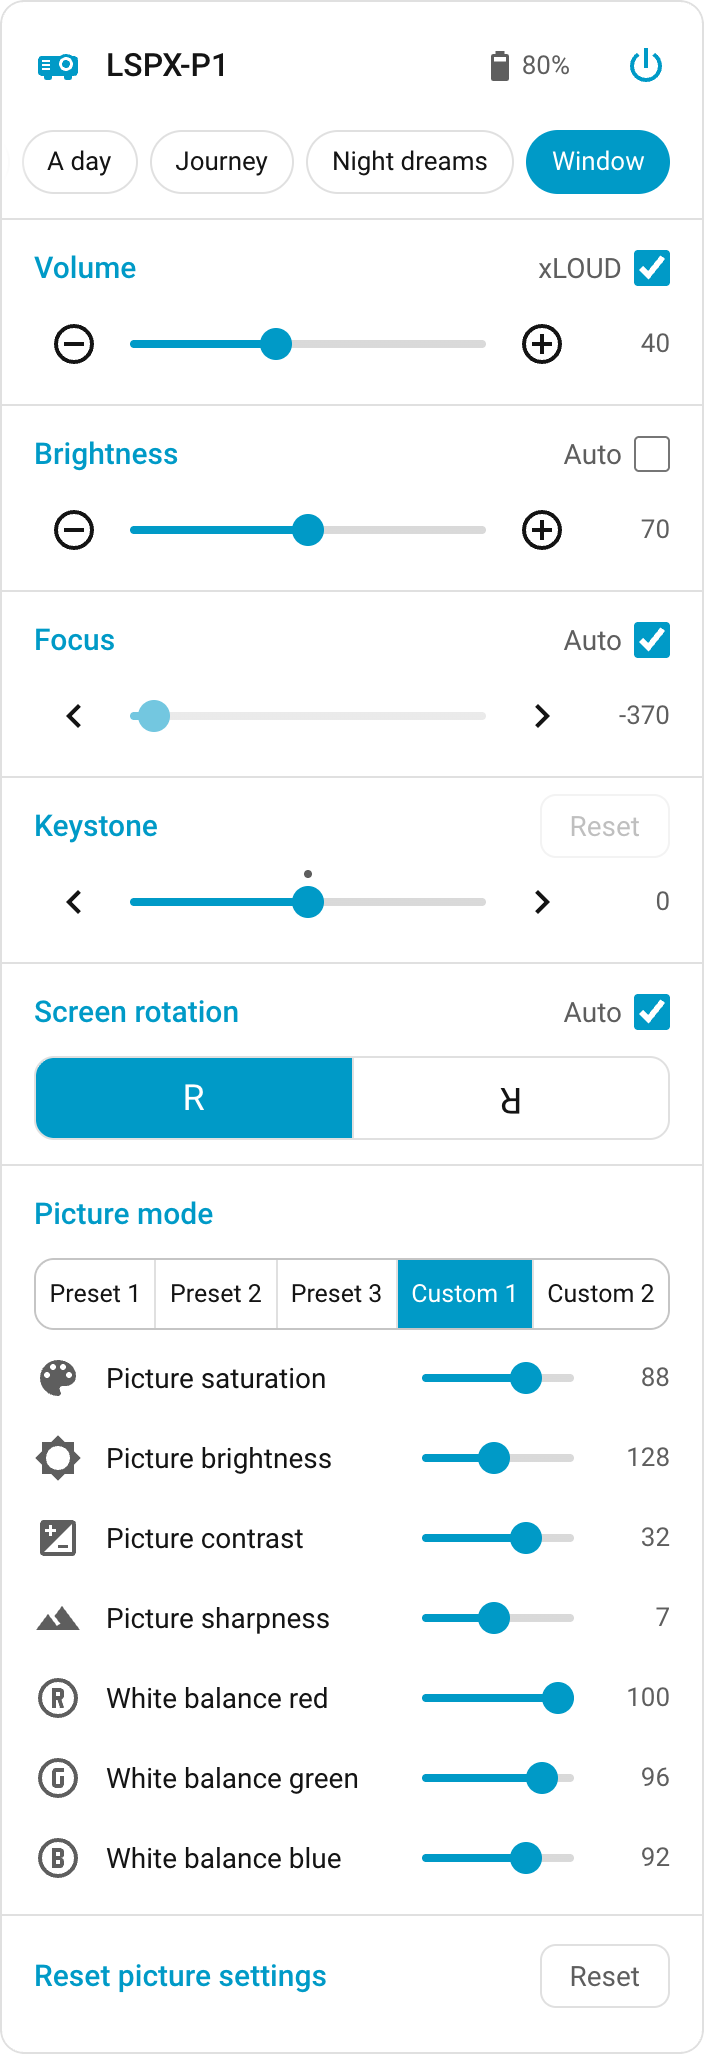
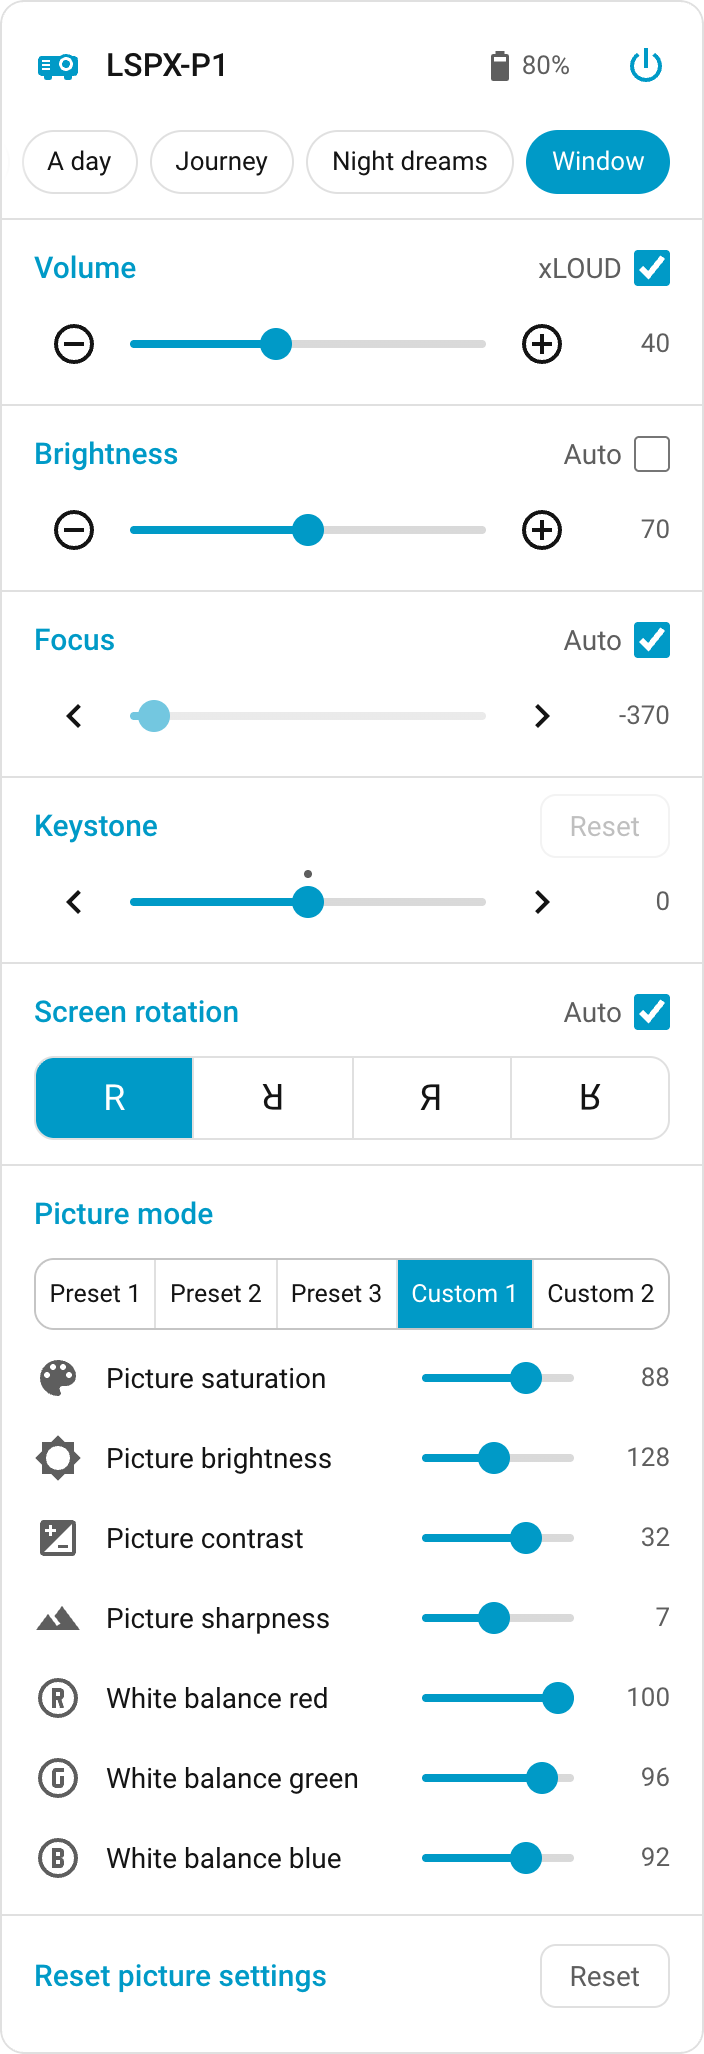
Card: all four screen rotations, including the mirrored ones
The card offered only Normal and Upside down, as Sony's app does. It now
also offers Mirrored horizontally and Mirrored vertically, each an "R"
turned the same way, with the entity's translated option name as tooltip
and accessible name. A projector in a mirrored state used to show no
option selected.

diff --git a/custom_components/sony_lspx_p1/frontend/sony-lspx-p1-card.js b/custom_components/sony_lspx_p1/frontend/sony-lspx-p1-card.js
@@ -84,6 +84,15 @@ const KEYS = {
   battery: ["_battery"],
 };
 
+// Screen rotation options (the select's, in its order), each shown as an "R" turned or mirrored the same way.
+// The entity's translated state name is the button's tooltip and accessible name.
+const ROTATIONS = [
+  ["normal", "none"],
+  ["rotate_180", "scale(-1, -1)"],
+  ["mirror_horizontal", "scaleX(-1)"],
+  ["mirror_vertical", "scaleY(-1)"],
+];
+
 const PICTURE_SLIDERS = [
   ["picture_saturation", "mdi:palette"],
   ["picture_brightness", "mdi:brightness-5"],
@@ -175,7 +184,9 @@ const STYLE = `
   .segments.small button { flex: 1 1 auto; white-space: nowrap; padding: 0 6px; font-size: 12.5px; height: 34px;
     border-left: none; background: var(--ha-card-background, var(--card-background-color, #fff)); }
   .segments.small button.selected { background: var(--primary-color); }
-  .flip { display: inline-block; transform: scaleX(-1) scaleY(-1); }
+  /* Turned and mirrored about the middle of the capital (just above the box's middle with line-height 1 in
+     Home Assistant's Roboto), so they stay level with the normal one. */
+  .glyph { display: inline-block; line-height: 1; transform-origin: 50% 47%; }
   .keystone-zero { position: relative; flex: 1; display: flex; }
   .keystone-zero::before { content: ""; position: absolute; left: 50%; top: -2px; width: 4px; height: 4px; margin-left: -2px; border-radius: 50%; background: var(--secondary-text-color); }
   .keystone-zero input { flex: 1; }
@@ -553,8 +564,7 @@ class SonyLspxP1Card extends HTMLElement {
           <div class="section">
             <div class="section-head"><span class="title" data-label="rotation"></span>${this._autoBox("auto_rotation")}</div>
             <div class="segments" data-segments="rotation">
-              <button data-option="normal">R</button>
-              <button data-option="rotate_180"><span class="flip">R</span></button>
+              ${ROTATIONS.map(([o, t]) => `<button data-option="${o}"><span class="glyph" style="transform: ${t}">R</span></button>`).join("")}
             </div>
           </div>`);
       }
@@ -889,7 +899,15 @@ class SonyLspxP1Card extends HTMLElement {
     }
 
     // Rotation
+    const rotation = this._state("rotation");
     root.querySelectorAll("[data-segments=rotation] button").forEach((b) => {
+      if (rotation) {
+        const label = this._optionLabel(rotation, b.dataset.option);
+        if (b.title !== label) {
+          b.title = label;
+          b.setAttribute("aria-label", label);
+        }
+      }
       const selected = this._shown("rotation") === b.dataset.option;
       b.classList.toggle("selected", selected);
       b.classList.toggle("pending", selected && this._isPulsing("rotation"));

diff --git a/tests/card/harness.html b/tests/card/harness.html
@@ -48,7 +48,7 @@
     ["switch.lspx_p1_auto_brightness", "auto_brightness", "off", {}],
     ["switch.lspx_p1_auto_focus", "auto_focus", "on", {}],
     ["switch.lspx_p1_xloud", "xloud", "off", {}],
-    ["select.lspx_p1_screen_rotation", "rotation", "normal", { options: ["normal", "rotate_180"] }],
+    ["select.lspx_p1_screen_rotation", "rotation", "normal", { options: ["normal", "rotate_180", "mirror_horizontal", "mirror_vertical"] }],
     ["switch.lspx_p1_auto_rotation", "auto_rotation", "off", {}],
     ["sensor.lspx_p1_battery", "battery", "80", { device_class: "battery" }],
   ];

diff --git a/tests/test_card_ui.py b/tests/test_card_ui.py
@@ -372,3 +372,75 @@ def test_every_language_has_every_word(page: Browser) -> None:
         if language != "en":
             assert set(table["posters"]) == posters, language
             assert "{n}" in table["posters"]["clock"], language
+
+
+# --- screen rotation --------------------------------------------------------------------------------
+
+ROTATIONS = ["normal", "rotate_180", "mirror_horizontal", "mirror_vertical"]  # the select's options, as in the harness
+ROTATION_JS = """[...T.card.shadowRoot.querySelectorAll('[data-segments=rotation] button')].map((b) => {
+  const glyph = b.querySelector('.glyph'), r = b.getBoundingClientRect(), g = glyph.getBoundingClientRect();
+  return {option: b.dataset.option, selected: b.classList.contains('selected'), title: b.title,
+    label: b.getAttribute('aria-label'), left: r.left, right: r.right, glyph: [g.left, g.right],
+    transform: getComputedStyle(glyph).transform};
+})"""
+
+
+def rotation(page: Browser) -> list[dict]:
+    return page.js(ROTATION_JS)
+
+
+def set_rotation(page: Browser, option: str) -> None:
+    page.js(f"T.set({{'select.lspx_p1_screen_rotation': {{state: {json.dumps(option)}}}}})")
+
+
+def test_rotation_offers_every_option(page: Browser) -> None:
+    """The select's four options in its order, each a differently turned "R" named by the entity's translations."""
+    names = json.loads((TRANSLATIONS / "en.json").read_text())["entity"]["select"]["rotation"]["state"]
+    page.js(f"const h = T.hass; T.hass = () => ({{...h(), formatEntityState: (s, o) => ({json.dumps(names)})[o]}})")
+    mount(page)
+    buttons = rotation(page)
+    assert [b["option"] for b in buttons] == ROTATIONS
+    assert [b["title"] for b in buttons] == [names[o] for o in ROTATIONS]
+    assert [b["label"] for b in buttons] == [names[o] for o in ROTATIONS]
+    assert len({b["transform"] for b in buttons}) == len(ROTATIONS)
+
+
+def test_rotation_names_without_translations(page: Browser) -> None:
+    mount(page)
+    assert [b["title"] for b in rotation(page)] == ["Normal", "Rotate 180", "Mirror horizontal", "Mirror vertical"]
+
+
+@pytest.mark.parametrize("option", ROTATIONS)
+def test_rotation_selectable(page: Browser, option: str) -> None:
+    mount(page, manual=True)
+    set_rotation(page, "rotate_180" if option == "normal" else "normal")
+    page.js(f"T.click('[data-segments=rotation] [data-option={option}]')")
+    assert [b["option"] for b in rotation(page) if b["selected"]] == [option]
+    assert calls(page) == [("select.select_option", "pending", {"option": option})]
+
+
+@pytest.mark.parametrize("option", ROTATIONS)
+def test_rotation_shows_state(page: Browser, option: str) -> None:
+    """Including the mirrored states, which used to leave no button selected."""
+    mount(page)
+    set_rotation(page, option)
+    assert [b["option"] for b in rotation(page) if b["selected"]] == [option]
+
+
+@pytest.mark.parametrize("layout", ["standard", "full"])
+@pytest.mark.parametrize("width", [280, 320, 420])
+def test_rotation_fits(page: Browser, layout: str, width: int) -> None:
+    """At phone width the four buttons share one row and each "R" stays inside its button."""
+    mount(page, layout=layout, width=width)
+    buttons = rotation(page)
+    left, right = page.js("(() => { const r = T.card.getBoundingClientRect(); return [r.left, r.right]; })()")
+    assert buttons[0]["left"] >= left
+    assert buttons[-1]["right"] <= right
+    for b in buttons:
+        assert b["right"] - b["left"] >= 44, b  # a comfortable touch target
+        assert b["left"] < b["glyph"][0] < b["glyph"][1] < b["right"], b
+
+
+def test_compact_has_no_rotation(page: Browser) -> None:
+    mount(page, layout="compact")
+    assert rotation(page) == []
